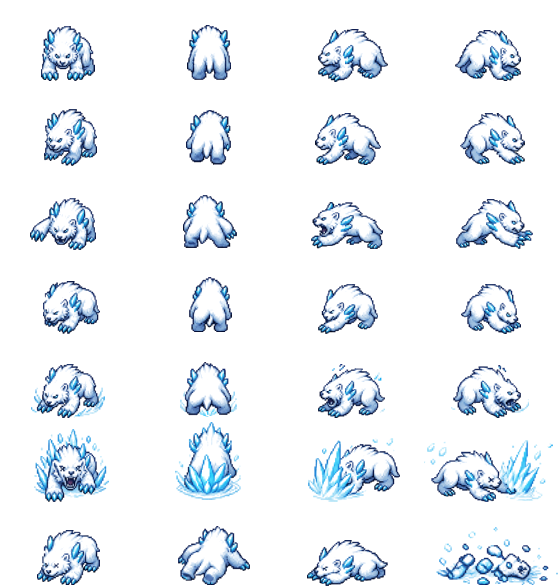
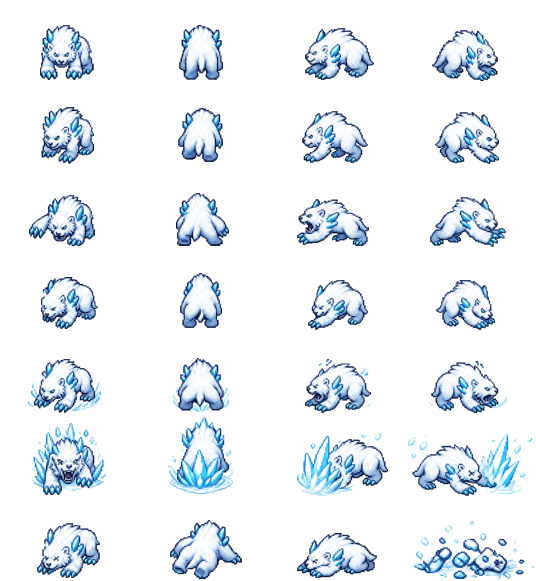
Fix holes in the B1 Frostback Bear and Rimefang Wolf sprites: their white fur has the sheet background's tone, so the background cutter erased it (build-monsters sheet options pocket 1e9 + new bgErode: the background flood cannot leak through thin outline gaps); rime_wolf config points at 1.png

diff --git a/tools/build-monsters.js b/tools/build-monsters.js
@@ -102,11 +102,12 @@ const SHEETS = {
   },
   // ---------------- B1 FROSTWIND PLAINS: one pose per action row, one column per direction (0 down · 1 up · 2 left · 3 right)
   rime_wolf: {
-    file: 'B/B1/1', height: 36, region: [300, 0, 2048, 2048],
+    file: 'B/B1/1.png', height: 36, region: [300, 0, 2048, 2048], pocket: 1e9, bgErode: 2, // white fur: same fix as frost_bear
     rows: [['idle', 4], ['walk', 4], ['attack', 4], ['hit', 4], ['telegraph', 4], ['special', 4], ['death', 4]],
   },
   frost_bear: {
-    file: 'B/B1/2', height: 54, region: [260, 0, 2048, 2048],
+    file: 'B/B1/2', height: 54, region: [260, 0, 2048, 2048], pocket: 1e9, bgErode: 2, // WHITE fur = the checkerboard's tone: no enclosed "pockets" (the bear's outline is complete, big
+    // white fur areas are not gaps) and the edge flood can't leak through a thin outline gap
     rows: [['idle', 4, { y: [41, 288] }], ['walk', 4, { y: [316, 555] }], ['attack', 4, { y: [581, 803] }], ['hit', 4, { y: [826, 1070] }],
       ['telegraph', 4, { y: [1094, 1337] }], ['special', 4, { y: [1354, 1681] }], ['death', 4, { y: [1721, 1975] }]],
   },
@@ -199,10 +200,30 @@ function measureBackground(img) {
   return { lo: Math.min(...tones) - 10, hi: Math.max(...tones) + 10 };
 }
 
-function removeBackground(img, pocket = 40) {
+// erode (sheet option `bgErode: r`): white / light-grey art on a light sheet (a white bear's fur) has the SAME tone as the
+// background, so a normal flood leaks into the body through every small gap in the outline. With r > 0 the flood only
+// travels through "core" background (every pixel within r is background-toned) and is then widened back by r px:
+// gaps up to 2r px wide in the outline stop it.
+function removeBackground(img, pocket = 40, erode = 0) {
   const { width: w, height: h, data } = img;
   const bg = measureBackground(img);
-  const isBg = (p) => { const i = p * 4, l = lum(data, i); return neutral(data, i) <= 16 && l >= bg.lo && l <= bg.hi; };
+  const tone = (p) => { const i = p * 4, l = lum(data, i); return neutral(data, i) <= 16 && l >= bg.lo && l <= bg.hi; };
+  let isBg = tone;
+  if (erode > 0) {
+    const toneMap = new Uint8Array(w * h);
+    for (let p = 0; p < w * h; p++) toneMap[p] = tone(p) ? 1 : 0;
+    const core = new Uint8Array(w * h);
+    for (let y = 0; y < h; y++) for (let x = 0; x < w; x++) {
+      let all = 1;
+      for (let dy = -erode; dy <= erode && all; dy++) for (let dx = -erode; dx <= erode; dx++) {
+        const xx = x + dx, yy = y + dy;
+        if (xx < 0 || yy < 0 || xx >= w || yy >= h) continue; // off-sheet counts as background
+        if (!toneMap[yy * w + xx]) { all = 0; break; }
+      }
+      core[y * w + x] = all;
+    }
+    isBg = (p) => core[p] === 1;
+  }
   const mark = new Uint8Array(w * h); // 1 = background, 2 = shadow
   const st = [];
   for (let x = 0; x < w; x++) for (const y of [0, h - 1]) { const p = y * w + x; if (isBg(p)) { mark[p] = 1; st.push(p); } }
@@ -230,6 +251,17 @@ function removeBackground(img, pocket = 40) {
       }
     }
     if (comp.length >= pocket) for (const q of comp) mark[q] = 1; // sheet `pocket`: small sprites need a smaller size
+  }
+  if (erode > 0) { // widen the eroded background back by r px, over background-toned pixels only
+    for (let pass = 0; pass < erode; pass++) {
+      const add = [];
+      for (let p = 0; p < w * h; p++) {
+        if (mark[p] || !tone(p)) continue;
+        const x = p % w;
+        if ((x > 0 && mark[p - 1] === 1) || (x < w - 1 && mark[p + 1] === 1) || (p >= w && mark[p - w] === 1) || (p < w * (h - 1) && mark[p + w] === 1)) add.push(p);
+      }
+      for (const p of add) mark[p] = 1;
+    }
   }
   // soft grey shadows touching the background -> translucent black
   for (let p = 0; p < w * h; p++) if (mark[p] === 1) st.push(p);
@@ -423,7 +455,7 @@ function centreOf(im, bb) {
 
 function buildMonster(id, def, probe) {
   const img = png.read(path.join(ROOT, SRC, def.file));
-  const bg = removeBackground(img, def.pocket);
+  const bg = removeBackground(img, def.pocket, def.bgErode || 0);
   if (def.darkBg) {
     // dark checkerboard sheets: background = dark NEUTRAL pixels in [minLum, lum] that form a LARGE connected region.
     // The art's own dark greys sit inside its black outline (below minLum), so they are separate small regions and stay.

diff --git a/CLAUDE.md b/CLAUDE.md
@@ -710,5 +710,11 @@ Push to GitHub (`origin` = github.com/jepzaze6665-dev/EO-ver0.1, branch `main`) 
   the open ground of other maps: 31 monsters / 15 packs / 31% of ground within 15 tiles of a pack -> 65 / 50 / 81% (a1 89%,
   a2 69%, b2 67%). b1 levelBand.exp 1.5 -> 1.0 (the bonus only made up for the few monsters). New packs never within 8 tiles
   of an NPC / waystone (World.buildGrid). Pacing now: A 10 / 21 / 30 -> LV 31 · B 15 / 26 / 38 -> LV 39.
+- Sprite fix (owner: "the B1 bear has holes"): WHITE fur = the light checkerboard's tone, so build-monsters' enclosed-pocket
+  step erased big fur areas as "gaps". Sheet options: `pocket: 1e9` (no pockets: the outline is complete) + new `bgErode: r`
+  (removeBackground floods only through "core" background — every pixel within r is background — then widens back r px, so it
+  can't leak through thin outline gaps). Used by frost_bear + rime_wolf (whose config still named 'B/B1/1': the file is 1.png).
+  Check white sprites on a dark / magenta backdrop — holes are invisible on white. Seen: yeti frames clipped on the left (frame
+  slicing, not holes) — not fixed yet.
 - AG art swapped to the owner's new set (2026-09-29): build-player sheet option `facing` (per-sheet side rows; AG ATK1's
   attack poses are mirrored vs its idle poses) + AG `nearestBody`; dodge now plays the real DASH sheet. Walk step-bob kept.
